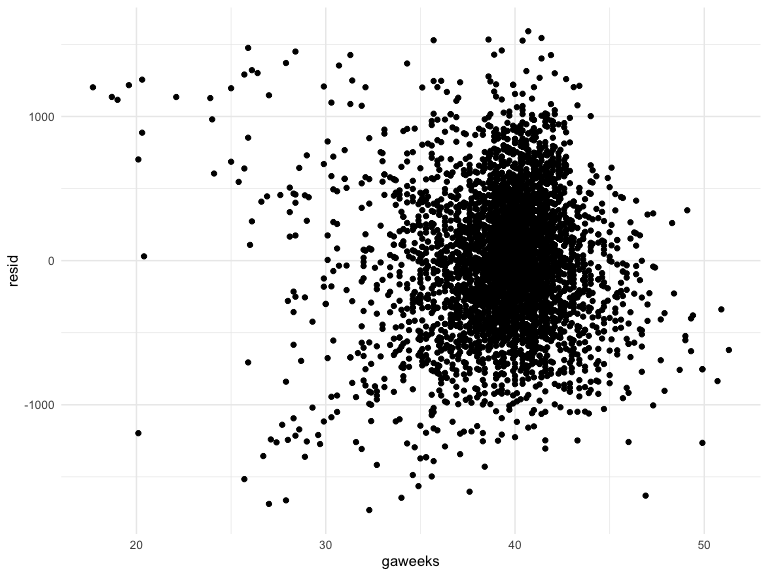
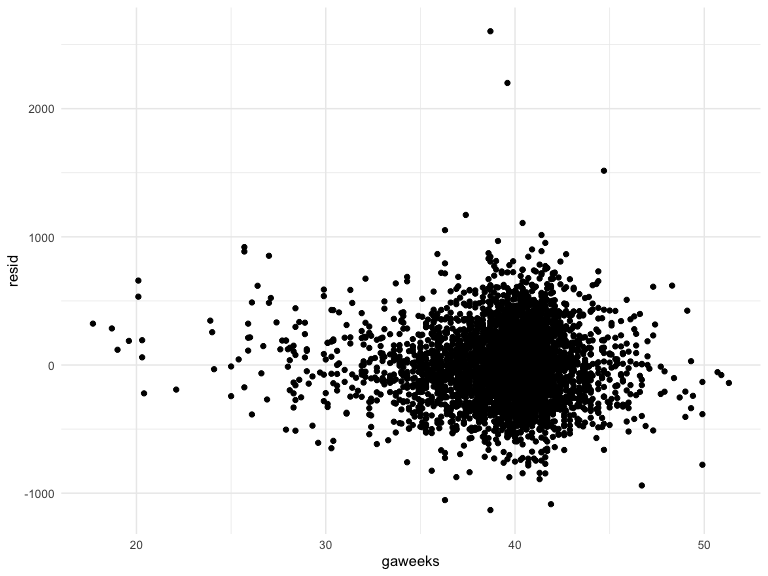
residuals section

diff --git a/p8105_HW6_rkm2147.md b/p8105_HW6_rkm2147.md
@@ -140,6 +140,20 @@ show a plot of model residuals against fitted values – use
 add\_predictions and add\_residuals in making this plot.
 
 ``` r
+baby_df %>% 
+  modelr::add_residuals(model) %>% 
+  ggplot(aes(x = momage, y = resid)) + 
+  geom_point()
+```
+
+<img src="p8105_HW6_rkm2147_files/figure-gfm/unnamed-chunk-7-1.png" width="90%" />
+
+is there any skewness? yes, this is right skewed any trend, something
+that is nonlinear? no distinct trends appear any extreme outliers. can
+be observed around the age 20. There appears to be 3 values that are
+above 1500 for residual values.
+
+``` r
 fit_1 = lm(bwt ~ blength + gaweeks, data = baby_df)
 fit_2 = lm(bwt ~ bhead*blength + babysex*bhead + babysex*blength + babysex*bhead*blength, data = baby_df)
 ```
@@ -167,7 +181,7 @@ model_fit = lm(bwt ~ gaweeks, data = baby_df)
 
 ``` r
 baby_df %>% 
-  modelr::add_residuals(model_fit) %>% 
+  modelr::add_residuals(model) %>% 
   ggplot(aes(x = gaweeks, y = resid)) + 
   geom_point()
 ```
